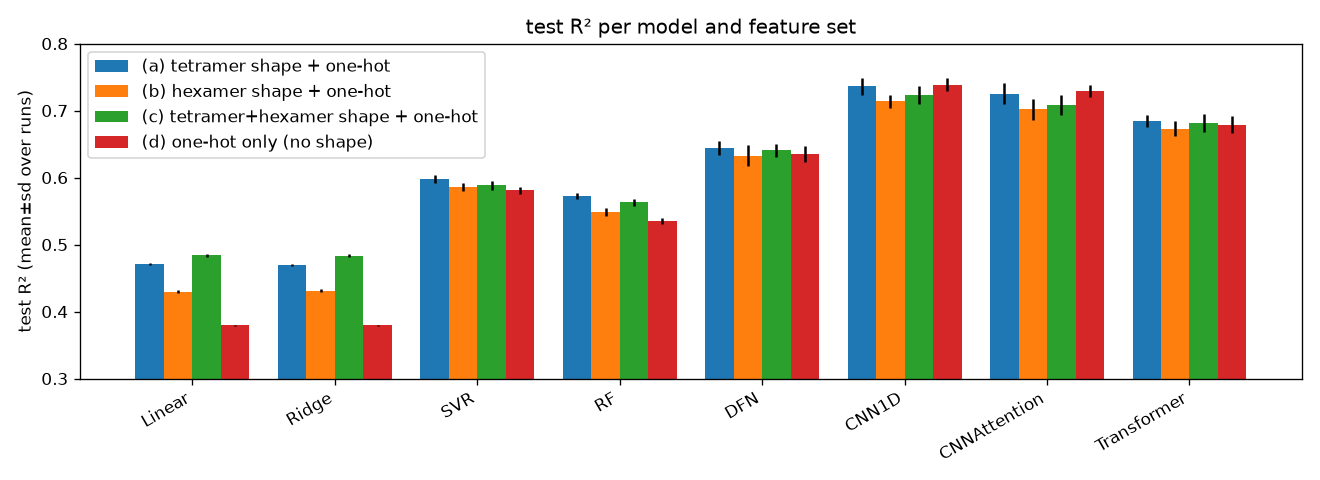
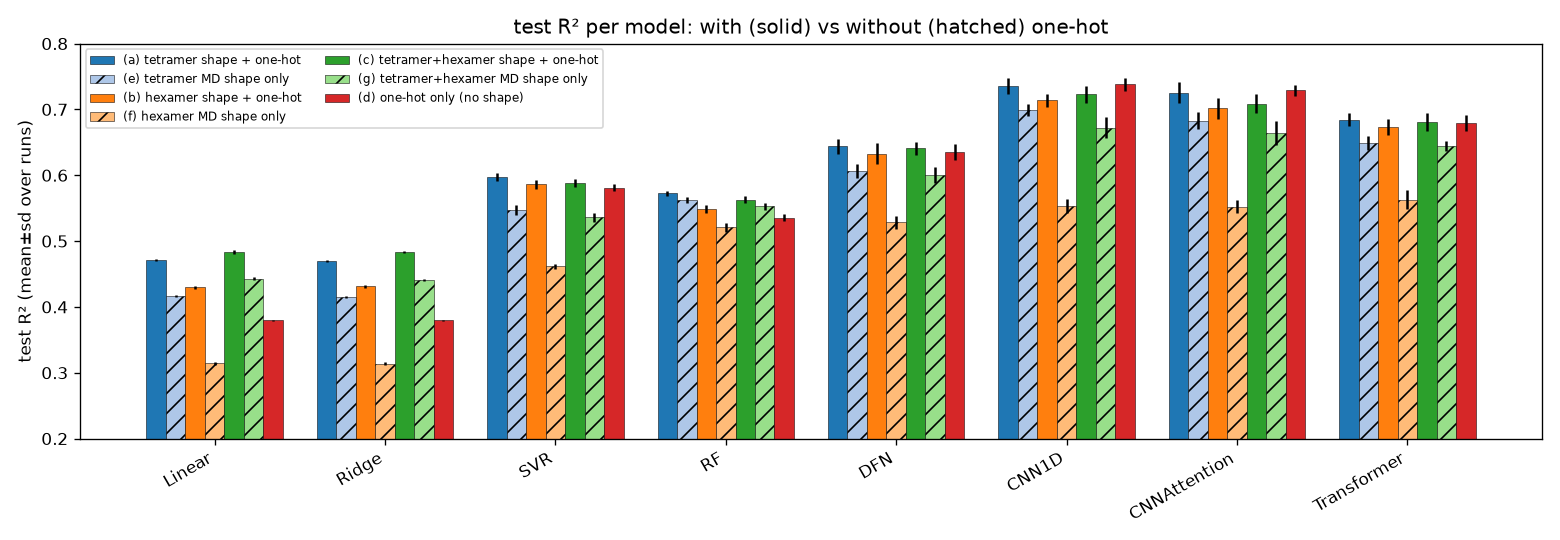
Runs e-g, permuted-table control, LRP shape-only: results and plots

Changed region(s): [[0.0, 0.0312, 0.9939, 0.9688]]

diff --git a/outputs/selex_new_shape/report/tab_fs_full.tex b/outputs/selex_new_shape/report/tab_fs_full.tex
@@ -53,3 +53,45 @@ CNN1D & 15 & 0.897$\pm$0.023 & 0.742$\pm$0.022 & \textbf{0.739$\pm$0.010} & 0.86
 CNNAttention & 15 & 0.909$\pm$0.025 & 0.733$\pm$0.021 & 0.729$\pm$0.009 & 0.856$\pm$0.005 & 0.838$\pm$0.005 & 0.180$\pm$0.023 & 0.785 \\
 Transformer & 15 & 0.757$\pm$0.017 & 0.703$\pm$0.013 & 0.679$\pm$0.012 & 0.825$\pm$0.007 & 0.809$\pm$0.009 & 0.078$\pm$0.007 & 0.702 \\
 \bottomrule\end{tabular}\label{tab:fs_onehot}\end{table}
+
+\begin{table}[H]\centering\scriptsize\setlength{\tabcolsep}{3pt}
+\caption{Feature set (e) tetramer MD shape only: all models, same labels, folds and held-out test set. $R^2$/Pearson/Spearman on log affinity, mean$\pm$sd over runs (5 folds; $\times$3 seeds for NNs). Gap = train $-$ test $R^2$. Avg-runs = test $R^2$ of the averaged prediction of all runs of the model. Bold: best test $R^2$ in this set.}
+\begin{tabular}{lcccccccc}\toprule
+Model & Runs & Train $R^2$ & Val $R^2$ & Test $R^2$ & Test Pearson & Test Spearman & Gap & Avg-runs $R^2$\\\midrule
+Linear & 5 & 0.452$\pm$0.003 & 0.431$\pm$0.014 & 0.416$\pm$0.001 & 0.645$\pm$0.001 & 0.649$\pm$0.002 & 0.036$\pm$0.004 & 0.418 \\
+Ridge & 5 & 0.451$\pm$0.003 & 0.431$\pm$0.013 & 0.415$\pm$0.001 & 0.645$\pm$0.001 & 0.648$\pm$0.002 & 0.035$\pm$0.004 & 0.417 \\
+SVR & 5 & 0.691$\pm$0.002 & 0.576$\pm$0.006 & 0.547$\pm$0.007 & 0.741$\pm$0.005 & 0.734$\pm$0.006 & 0.144$\pm$0.006 & 0.555 \\
+RF & 5 & 0.880$\pm$0.001 & 0.588$\pm$0.016 & 0.562$\pm$0.005 & 0.754$\pm$0.003 & 0.734$\pm$0.003 & 0.317$\pm$0.004 & 0.571 \\
+DFN & 15 & 0.807$\pm$0.026 & 0.621$\pm$0.012 & 0.606$\pm$0.011 & 0.779$\pm$0.007 & 0.764$\pm$0.007 & 0.201$\pm$0.021 & 0.638 \\
+CNN1D & 15 & 0.866$\pm$0.028 & 0.694$\pm$0.021 & \textbf{0.700$\pm$0.009} & 0.838$\pm$0.006 & 0.821$\pm$0.006 & 0.167$\pm$0.024 & 0.751 \\
+CNNAttention & 15 & 0.858$\pm$0.038 & 0.683$\pm$0.020 & 0.683$\pm$0.013 & 0.829$\pm$0.008 & 0.811$\pm$0.009 & 0.175$\pm$0.031 & 0.742 \\
+Transformer & 15 & 0.727$\pm$0.014 & 0.665$\pm$0.016 & 0.649$\pm$0.010 & 0.806$\pm$0.006 & 0.790$\pm$0.007 & 0.077$\pm$0.006 & 0.675 \\
+\bottomrule\end{tabular}\label{tab:fs_tetramerMD}\end{table}
+
+\begin{table}[H]\centering\scriptsize\setlength{\tabcolsep}{3pt}
+\caption{Feature set (f) hexamer MD shape only: all models, same labels, folds and held-out test set. $R^2$/Pearson/Spearman on log affinity, mean$\pm$sd over runs (5 folds; $\times$3 seeds for NNs). Gap = train $-$ test $R^2$. Avg-runs = test $R^2$ of the averaged prediction of all runs of the model. Bold: best test $R^2$ in this set.}
+\begin{tabular}{lcccccccc}\toprule
+Model & Runs & Train $R^2$ & Val $R^2$ & Test $R^2$ & Test Pearson & Test Spearman & Gap & Avg-runs $R^2$\\\midrule
+Linear & 5 & 0.339$\pm$0.004 & 0.323$\pm$0.019 & 0.314$\pm$0.002 & 0.561$\pm$0.002 & 0.557$\pm$0.002 & 0.025$\pm$0.004 & 0.316 \\
+Ridge & 5 & 0.339$\pm$0.004 & 0.323$\pm$0.019 & 0.314$\pm$0.002 & 0.561$\pm$0.002 & 0.557$\pm$0.002 & 0.025$\pm$0.004 & 0.315 \\
+SVR & 5 & 0.581$\pm$0.003 & 0.480$\pm$0.013 & 0.462$\pm$0.004 & 0.681$\pm$0.003 & 0.677$\pm$0.004 & 0.119$\pm$0.003 & 0.469 \\
+RF & 5 & 0.871$\pm$0.002 & 0.547$\pm$0.020 & 0.521$\pm$0.007 & 0.724$\pm$0.005 & 0.697$\pm$0.005 & 0.350$\pm$0.005 & 0.532 \\
+DFN & 15 & 0.749$\pm$0.034 & 0.540$\pm$0.021 & 0.529$\pm$0.010 & 0.728$\pm$0.007 & 0.710$\pm$0.008 & 0.220$\pm$0.030 & 0.565 \\
+CNN1D & 15 & 0.756$\pm$0.049 & 0.572$\pm$0.029 & 0.553$\pm$0.011 & 0.747$\pm$0.008 & 0.728$\pm$0.008 & 0.203$\pm$0.042 & 0.619 \\
+CNNAttention & 15 & 0.770$\pm$0.034 & 0.573$\pm$0.025 & 0.553$\pm$0.010 & 0.748$\pm$0.007 & 0.732$\pm$0.007 & 0.218$\pm$0.035 & 0.613 \\
+Transformer & 15 & 0.652$\pm$0.021 & 0.584$\pm$0.021 & \textbf{0.563$\pm$0.014} & 0.751$\pm$0.010 & 0.732$\pm$0.012 & 0.089$\pm$0.010 & 0.590 \\
+\bottomrule\end{tabular}\label{tab:fs_hexamerMD}\end{table}
+
+\begin{table}[H]\centering\scriptsize\setlength{\tabcolsep}{3pt}
+\caption{Feature set (g) tetramer+hexamer MD shape only: all models, same labels, folds and held-out test set. $R^2$/Pearson/Spearman on log affinity, mean$\pm$sd over runs (5 folds; $\times$3 seeds for NNs). Gap = train $-$ test $R^2$. Avg-runs = test $R^2$ of the averaged prediction of all runs of the model. Bold: best test $R^2$ in this set.}
+\begin{tabular}{lcccccccc}\toprule
+Model & Runs & Train $R^2$ & Val $R^2$ & Test $R^2$ & Test Pearson & Test Spearman & Gap & Avg-runs $R^2$\\\midrule
+Linear & 5 & 0.493$\pm$0.003 & 0.461$\pm$0.015 & 0.443$\pm$0.002 & 0.667$\pm$0.001 & 0.669$\pm$0.001 & 0.051$\pm$0.004 & 0.446 \\
+Ridge & 5 & 0.489$\pm$0.003 & 0.461$\pm$0.013 & 0.441$\pm$0.002 & 0.665$\pm$0.001 & 0.667$\pm$0.001 & 0.048$\pm$0.004 & 0.444 \\
+SVR & 5 & 0.678$\pm$0.002 & 0.565$\pm$0.008 & 0.536$\pm$0.006 & 0.733$\pm$0.004 & 0.729$\pm$0.005 & 0.142$\pm$0.005 & 0.544 \\
+RF & 5 & 0.890$\pm$0.001 & 0.579$\pm$0.018 & 0.553$\pm$0.005 & 0.747$\pm$0.004 & 0.726$\pm$0.004 & 0.337$\pm$0.004 & 0.563 \\
+DFN & 15 & 0.809$\pm$0.035 & 0.616$\pm$0.014 & 0.601$\pm$0.012 & 0.776$\pm$0.008 & 0.761$\pm$0.009 & 0.209$\pm$0.031 & 0.633 \\
+CNN1D & 15 & 0.844$\pm$0.044 & 0.670$\pm$0.024 & \textbf{0.672$\pm$0.016} & 0.822$\pm$0.009 & 0.806$\pm$0.010 & 0.172$\pm$0.034 & 0.729 \\
+CNNAttention & 15 & 0.837$\pm$0.047 & 0.667$\pm$0.024 & 0.664$\pm$0.019 & 0.817$\pm$0.012 & 0.802$\pm$0.013 & 0.173$\pm$0.035 & 0.725 \\
+Transformer & 15 & 0.734$\pm$0.013 & 0.664$\pm$0.016 & 0.644$\pm$0.008 & 0.804$\pm$0.005 & 0.790$\pm$0.006 & 0.090$\pm$0.008 & 0.671 \\
+\bottomrule\end{tabular}\label{tab:fs_tetrahexaMD}\end{table}

diff --git a/outputs/selex_new_shape/report/tab_bench.tex b/outputs/selex_new_shape/report/tab_bench.tex
@@ -1,8 +1,8 @@
-Linear & 0.471 & 0.430 & \textbf{0.484} & 0.380 & 0.473 & 0.431 & 0.487 & 0.380 \\
-Ridge & 0.470 & 0.431 & \textbf{0.483} & 0.380 & 0.472 & 0.432 & 0.486 & 0.380 \\
-SVR & \textbf{0.598} & 0.586 & 0.588 & 0.581 & 0.606 & 0.594 & 0.596 & 0.590 \\
-RF & \textbf{0.572} & 0.549 & 0.563 & 0.536 & 0.581 & 0.558 & 0.572 & 0.541 \\
-DFN & \textbf{0.644} & 0.633 & 0.641 & 0.635 & 0.673 & 0.663 & 0.670 & 0.663 \\
-CNN1D & 0.736 & 0.714 & 0.723 & \textbf{0.739} & 0.788 & 0.765 & 0.773 & 0.789 \\
-CNNAttention & 0.725 & 0.702 & 0.709 & \textbf{0.729} & 0.778 & 0.758 & 0.763 & 0.785 \\
-Transformer & \textbf{0.685} & 0.673 & 0.681 & 0.679 & 0.709 & 0.699 & 0.707 & 0.702 \\
+Linear & 0.471 & 0.416 & 0.430 & 0.314 & \textbf{0.484} & 0.443 & 0.380 & 0.473 & 0.418 & 0.431 & 0.316 & 0.487 & 0.446 & 0.380 \\
+Ridge & 0.470 & 0.415 & 0.431 & 0.314 & \textbf{0.483} & 0.441 & 0.380 & 0.472 & 0.417 & 0.432 & 0.315 & 0.486 & 0.444 & 0.380 \\
+SVR & \textbf{0.598} & 0.547 & 0.586 & 0.462 & 0.588 & 0.536 & 0.581 & 0.606 & 0.555 & 0.594 & 0.469 & 0.596 & 0.544 & 0.590 \\
+RF & \textbf{0.572} & 0.562 & 0.549 & 0.521 & 0.563 & 0.553 & 0.536 & 0.581 & 0.571 & 0.558 & 0.532 & 0.572 & 0.563 & 0.541 \\
+DFN & \textbf{0.644} & 0.606 & 0.633 & 0.529 & 0.641 & 0.601 & 0.635 & 0.673 & 0.638 & 0.663 & 0.565 & 0.670 & 0.633 & 0.663 \\
+CNN1D & 0.736 & 0.700 & 0.714 & 0.553 & 0.723 & 0.672 & \textbf{0.739} & 0.788 & 0.751 & 0.765 & 0.619 & 0.773 & 0.729 & 0.789 \\
+CNNAttention & 0.725 & 0.683 & 0.702 & 0.553 & 0.709 & 0.664 & \textbf{0.729} & 0.778 & 0.742 & 0.758 & 0.613 & 0.763 & 0.725 & 0.785 \\
+Transformer & \textbf{0.685} & 0.649 & 0.673 & 0.563 & 0.681 & 0.644 & 0.679 & 0.709 & 0.675 & 0.699 & 0.590 & 0.707 & 0.671 & 0.702 \\

diff --git a/outputs/selex_new_shape/report/tab_lrp_groups.tex b/outputs/selex_new_shape/report/tab_lrp_groups.tex
@@ -1,9 +1,9 @@
-one-hot & 0.347 & -0.002 & +0.331 & 0.489 & +0.072 & +0.525 & 1.000 & +0.146 & +1.063 \\
-\texttt{avg} SHIFT & 0.013 & -0.000 & -0.007 & 0.022 & -0.000 & +0.010 & -- & -- & -- \\
-\texttt{avg} SLIDE & 0.019 & +0.001 & +0.027 & 0.022 & +0.002 & +0.017 & -- & -- & -- \\
-\texttt{avg} RISE & 0.019 & +0.020 & +0.121 & 0.020 & +0.011 & +0.053 & -- & -- & -- \\
-\texttt{avg} TILT & 0.017 & -0.007 & -0.016 & 0.021 & +0.003 & +0.017 & -- & -- & -- \\
-\texttt{avg} ROLL & 0.015 & -0.012 & -0.015 & 0.017 & -0.000 & +0.005 & -- & -- & -- \\
-\texttt{avg} TWIST & 0.018 & -0.008 & +0.009 & 0.021 & +0.003 & +0.029 & -- & -- & -- \\
-\texttt{fce} diagonal & 0.136 & -0.026 & +0.078 & 0.107 & +0.007 & +0.075 & -- & -- & -- \\
-\texttt{fce} off-diagonal & 0.417 & +0.029 & +0.464 & 0.281 & +0.040 & +0.238 & -- & -- & -- \\
+one-hot & 0.347 & 0.489 & 1.000 & -- & -- \\
+\texttt{avg} SHIFT & 0.013 & 0.022 & -- & 0.027 & 0.049 \\
+\texttt{avg} SLIDE & 0.019 & 0.022 & -- & 0.027 & 0.037 \\
+\texttt{avg} RISE & 0.019 & 0.020 & -- & 0.030 & 0.041 \\
+\texttt{avg} TILT & 0.017 & 0.021 & -- & 0.039 & 0.058 \\
+\texttt{avg} ROLL & 0.015 & 0.017 & -- & 0.028 & 0.030 \\
+\texttt{avg} TWIST & 0.018 & 0.021 & -- & 0.030 & 0.035 \\
+\texttt{fce} diagonal & 0.136 & 0.107 & -- & 0.177 & 0.179 \\
+\texttt{fce} off-diagonal & 0.417 & 0.281 & -- & 0.642 & 0.571 \\

diff --git a/outputs/selex_new_shape/report/tab_lrp_signed.tex b/outputs/selex_new_shape/report/tab_lrp_signed.tex
@@ -1,0 +1,9 @@
+one-hot & -0.002 & +0.072 & +0.146 & -- & -- & +0.331 & +0.525 & +1.063 & -- & -- \\
+\texttt{avg} SHIFT & -0.000 & -0.000 & -- & -0.013 & -0.014 & -0.007 & +0.010 & -- & -0.042 & +0.005 \\
+\texttt{avg} SLIDE & +0.001 & +0.002 & -- & +0.002 & +0.002 & +0.027 & +0.017 & -- & +0.055 & +0.033 \\
+\texttt{avg} RISE & +0.020 & +0.011 & -- & +0.053 & +0.024 & +0.121 & +0.053 & -- & +0.216 & +0.120 \\
+\texttt{avg} TILT & -0.007 & +0.003 & -- & -0.010 & -0.002 & -0.016 & +0.017 & -- & -0.023 & +0.038 \\
+\texttt{avg} ROLL & -0.012 & -0.000 & -- & -0.018 & -0.003 & -0.015 & +0.005 & -- & -0.022 & +0.009 \\
+\texttt{avg} TWIST & -0.008 & +0.003 & -- & -0.007 & +0.002 & +0.009 & +0.029 & -- & +0.014 & +0.044 \\
+\texttt{fce} diagonal & -0.026 & +0.007 & -- & -0.025 & -0.006 & +0.078 & +0.075 & -- & +0.114 & +0.129 \\
+\texttt{fce} off-diagonal & +0.029 & +0.040 & -- & +0.062 & +0.057 & +0.464 & +0.238 & -- & +0.644 & +0.519 \\

diff --git a/outputs/selex_new_shape/report/tab_time2.tex b/outputs/selex_new_shape/report/tab_time2.tex
@@ -1,0 +1,8 @@
+Linear & 0.15 & 3.9$\pm$0.3 & 0.00 & 0.14 & 2.6$\pm$0.1 & 0.00 & 0.35 & 5.4$\pm$0.5 & 0.00 \\
+Ridge & 0.26 & 0.2$\pm$0.1 & 0.00 & 0.10 & 0.2$\pm$0.1 & 0.00 & 0.39 & 0.5$\pm$0.1 & 0.00 \\
+SVR & 0.09 & 30.5$\pm$5.3 & 1.56 & 0.07 & 24.0$\pm$4.2 & 1.32 & 0.19 & 27.8$\pm$8.4 & 1.20 \\
+RF & 0.08 & 24.2$\pm$2.1 & 0.13 & 0.07 & 23.6$\pm$1.7 & 0.12 & 0.15 & 30.1$\pm$8.4 & 0.08 \\
+DFN & 0.09 & 25.1$\pm$5.9 & 0.00 & 0.07 & 29.9$\pm$6.3 & 0.00 & 0.17 & 23.4$\pm$6.0 & 0.00 \\
+CNN1D & 0.15 & 52.3$\pm$7.7 & 0.01 & 0.26 & 52.0$\pm$12.5 & 0.01 & 0.28 & 53.2$\pm$9.0 & 0.01 \\
+CNNAttention & 0.15 & 62.8$\pm$8.8 & 0.05 & 0.22 & 61.9$\pm$7.4 & 0.05 & 0.32 & 60.4$\pm$7.7 & 0.05 \\
+Transformer & 0.15 & 150.6$\pm$27.2 & 0.02 & 0.30 & 166.6$\pm$30.2 & 0.02 & 0.51 & 164.4$\pm$32.6 & 0.02 \\

diff --git a/outputs/selex_new_shape/report/tab_time_total.tex b/outputs/selex_new_shape/report/tab_time_total.tex
@@ -1,8 +1,8 @@
-Linear & 0.7 & 0.5 & 1.1 & 0.0 \\
-Ridge & 0.1 & 0.0 & 0.1 & 0.0 \\
-SVR & 4.9 & 5.2 & 7.0 & 0.9 \\
-RF & 3.6 & 3.9 & 6.7 & 0.2 \\
-DFN & 4.4 & 4.3 & 4.4 & 4.0 \\
-CNN1D & 12.5 & 12.2 & 11.6 & 10.9 \\
-CNNAttention & 13.9 & 19.1 & 13.9 & 14.5 \\
-Transformer & 33.7 & 82.4 & 32.7 & 34.0 \\
+Linear & 0.7 & 0.5 & 1.1 & 0.0 & 0.3 & 0.2 & 0.4 \\
+Ridge & 0.1 & 0.0 & 0.1 & 0.0 & 0.0 & 0.0 & 0.0 \\
+SVR & 4.9 & 5.2 & 7.0 & 0.9 & 2.5 & 2.0 & 2.3 \\
+RF & 3.6 & 3.9 & 6.7 & 0.2 & 2.0 & 2.0 & 2.5 \\
+DFN & 4.4 & 4.3 & 4.4 & 4.0 & 6.3 & 7.5 & 5.8 \\
+CNN1D & 12.5 & 12.2 & 11.6 & 10.9 & 13.1 & 13.0 & 13.3 \\
+CNNAttention & 13.9 & 19.1 & 13.9 & 14.5 & 15.7 & 15.5 & 15.1 \\
+Transformer & 33.7 & 82.4 & 32.7 & 34.0 & 37.7 & 41.6 & 41.1 \\

diff --git a/outputs/selex_new_shape/report/tab_perm.tex b/outputs/selex_new_shape/report/tab_perm.tex
@@ -1,0 +1,3 @@
+RF & 0.562$\pm$0.005 & 0.571 & 0.505$\pm$0.006 & 0.513 & 0.516$\pm$0.005 & 0.524 & 0.536 & 0.572 \\
+DFN & 0.606$\pm$0.011 & 0.638 & 0.472$\pm$0.014 & 0.526 & 0.470$\pm$0.010 & 0.527 & 0.635 & 0.644 \\
+CNN1D & 0.700$\pm$0.009 & 0.751 & 0.675$\pm$0.010 & 0.744 & 0.681$\pm$0.010 & 0.750 & 0.739 & 0.736 \\

diff --git a/outputs/selex_new_shape/report/tab_lrp_cons.tex b/outputs/selex_new_shape/report/tab_lrp_cons.tex
@@ -1,3 +1,5 @@
 DFN (a) & 15 & 0.987 & 0.759 & 0.718 & 1.3e-04 & 0.984 \\
 CNN1D (a) & 15 & 0.550 & 0.510 & 0.473 & 3.5e-02 & 0.166 \\
 CNN1D (d) & 15 & 0.557 & 0.532 & 0.502 & 3.5e-04 & 0.144 \\
+DFN (e) & 15 & 0.980 & 0.710 & 0.653 & 2.6e-05 & 0.983 \\
+CNN1D (e) & 15 & 0.568 & 0.521 & 0.514 & 1.1e-02 & 0.169 \\
